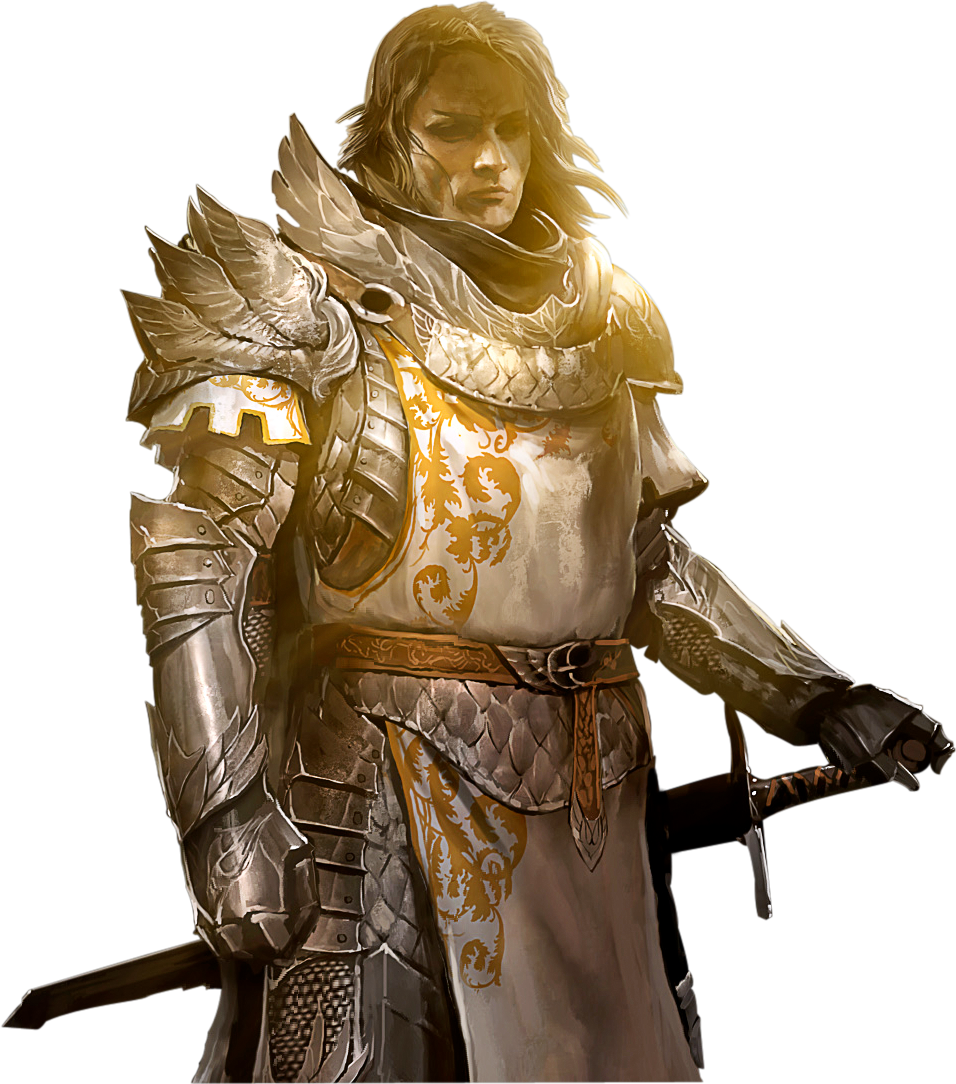
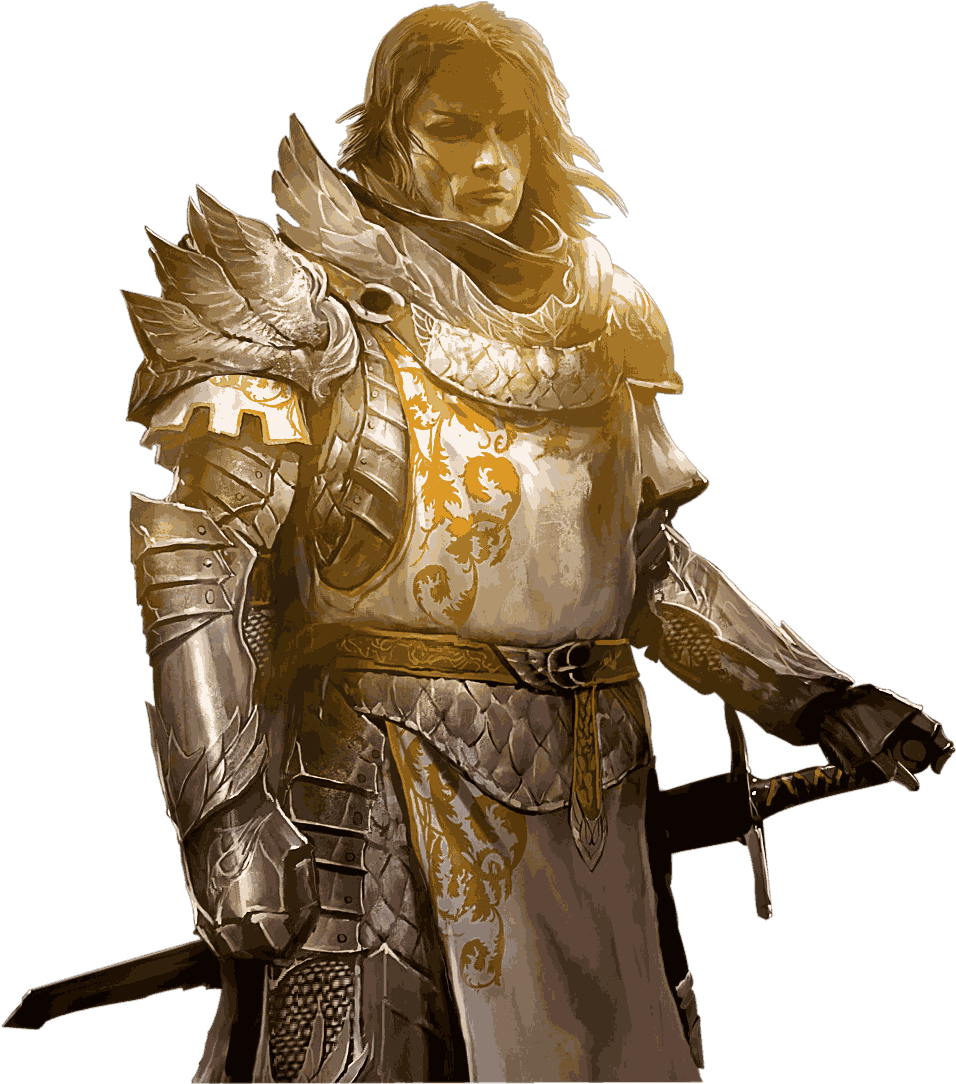
Updates

diff --git a/index.html b/index.html
@@ -9,8 +9,8 @@
     />
     <meta name="viewport" content="width=device-width, initial-scale=1.0" />
     <title>Soul Weaver | Choose Thy Champion, Wield Thy Fate</title>
-    <script type="module" crossorigin src="/Soul-Weaver/assets/index-OHOJaPsQ.js"></script>
-    <link rel="stylesheet" crossorigin href="/Soul-Weaver/assets/index-D1LACfQr.css">
+    <script type="module" crossorigin src="/Soul-Weaver/assets/index-wlFQIXXA.js"></script>
+    <link rel="stylesheet" crossorigin href="/Soul-Weaver/assets/index-CdpSVsqG.css">
   </head>
   <body>
     <div id="root"></div>

diff --git a/assets/index-CdpSVsqG.css b/assets/index-CdpSVsqG.css
@@ -1,0 +1,1 @@
+html,body,div,span,applet,object,iframe,h1,h2,h3,h4,h5,h6,p,blockquote,pre,a,abbr,acronym,address,big,cite,code,del,dfn,em,img,ins,kbd,q,s,samp,small,strike,strong,sub,sup,tt,var,b,u,i,center,dl,dt,dd,ol,ul,li,fieldset,form,label,legend,table,caption,tbody,tfoot,thead,tr,th,td,article,aside,canvas,details,embed,figure,figcaption,footer,header,hgroup,menu,nav,output,ruby,section,summary,time,mark,audio,video{font-size:100%;font:inherit;vertical-align:baseline;border:0;margin:0;padding:0}article,aside,details,figcaption,figure,footer,header,hgroup,menu,nav,section{display:block}body{line-height:1}ol,ul{list-style:none}blockquote,q{quotes:none}blockquote:before,blockquote:after,q:before,q:after{content:"";content:none}table{border-collapse:collapse;border-spacing:0}@font-face{font-family:DarkSouls;src:url(/Soul-Weaver/fonts/Cinzel-Regular.ttf)format("truetype")}@font-face{font-family:DarkSouls bold;src:url(/Soul-Weaver/fonts/Cinzel-Bold.ttf)format("truetype")}@font-face{font-family:DarkSouls medium;src:url(/Soul-Weaver/fonts/Cinzel-Medium.ttf)format("truetype")}@font-face{font-family:DarkSouls xbold;src:url(/Soul-Weaver/fonts/Cinzel-ExtraBold.ttf)format("truetype")}@font-face{font-family:DarkSouls decor;src:url(/Soul-Weaver/fonts/CinzelDecorative-Regular.ttf)format("truetype")}:root{--bg-dark:#0a0a0c;--bg-card:#111115;--border-dim:#1f1f24;--text-main:#d4c8b8;--text-dim:#6b6358;--gold:#c9a24e;--gold-bright:#e0c478;--ember:#c2472b;--ember-bright:#e85d3a;--soul-blue:#5b7b9a}html{box-sizing:border-box;font-size:62.5%}*,:after,:before{box-sizing:inherit;margin:0;padding:0}body{background-color:var(--bg-dark);min-height:100vh;color:var(--text-main);background-image:radial-gradient(at 50% 0,#c2472b26 0%,#0000 60%),radial-gradient(at 80% 100%,#c9a24e14 0%,#0000 50%);justify-content:center;align-items:flex-start;padding:40px 20px;font-family:DarkSouls;font-size:1.6rem;font-style:normal;font-weight:400;display:flex}.container{width:137rem;margin-left:auto;margin-right:auto}.select-wrapper{flex-direction:column;gap:10px;margin-top:5rem;display:flex}.select-label{text-transform:uppercase;letter-spacing:3px;color:var(--text-dim);font-family:DarkSouls bold;font-size:1.4rem;font-weight:600}.class-select{border:1px solid var(--border-dim);background:var(--bg-card);width:100%;color:var(--text-main);cursor:pointer;outline:none;padding:2rem 3rem;font-family:DarkSouls xbold;font-size:1.25em;transition:all .4s;position:relative}.class-select:hover{border-color:var(--gold);box-shadow:0 0 20px #c9a24e1a}.class-select:focus{border-color:var(--ember);box-shadow:0 0 30px #c2472b40,inset 0 0 20px #c2472b0d}.class-select option{background:var(--bg-card);color:var(--text-main)}#contentArea{flex-direction:column;gap:4rem;display:flex}.class-info{background:var(--bg-card);border:1px solid var(--border-dim);clip-path:polygon(0 0,100% 0,98% 100%,2% 100%);align-items:center;gap:20px;padding:20px 25px;display:flex;position:relative;overflow:hidden}.class-info:before{content:"";background:var(--class-color,var(--gold));width:4px;height:100%;position:absolute;top:0;left:0}.class-info .class-icon{filter:drop-shadow(0 0 12px #c9a24e66);width:10rem;animation:3s ease-in-out infinite floatIcon}.class-info .class-name{letter-spacing:2px;text-transform:uppercase;margin-bottom:1rem;font-family:DarkSouls decor;font-size:1.8em;font-weight:900}.class-info .class-desc{color:var(--text-dim);font-family:DarkSouls;font-size:1.4rem;font-style:italic}.weapons-section-title{letter-spacing:3px;text-transform:uppercase;color:var(--text-dim);align-items:center;gap:12px;font-family:DarkSouls bold;font-size:1.4rem;font-weight:700;display:flex}.weapons-section-title:after{content:"";background:linear-gradient(90deg, var(--border-dim), transparent);flex:1;height:1px}.weapons-grid{flex-wrap:wrap;gap:14px;display:flex}.weapon-card{background:var(--bg-card);border:1px solid var(--border-dim);cursor:pointer;background-position:50%;background-repeat:no-repeat;background-size:contain;flex-direction:column;flex:21rem;justify-content:space-between;align-items:center;gap:1.5rem;min-width:15rem;min-height:20rem;padding:25px 15px 20px;font-size:2rem;transition:all .4s cubic-bezier(.25,.8,.25,1.2);display:flex;position:relative;overflow:hidden}.weapon-card:before{content:"";opacity:0;pointer-events:none;background:#ffffff08;width:100%;height:100%;transition:opacity .4s;position:absolute;top:0;left:0}.weapon-card:hover{border-color:var(--gold);transform:translateY(-6px);box-shadow:0 20px 50px #0009,0 0 25px #c9a24e1a}.weapon-card:hover:before{opacity:1}.weapon-card .weapon-icon{filter:drop-shadow(0 4px 8px #00000080);font-size:3.2em;transition:all .4s}.weapon-card:hover .weapon-icon{filter:drop-shadow(0 0 18px #c9a24e99);transform:scale(1.15)}.weapon-card .weapon-name{letter-spacing:1px;text-align:center;color:var(--text-main);font-size:1em;font-weight:700}.weapon-card .weapon-stats{letter-spacing:1px;text-align:center;flex-flow:column wrap;justify-content:center;gap:8px;font-size:.75em;display:flex}.weapon-card .stat{border:1px solid var(--border-dim);color:var(--text-dim);background:#0000004d;padding:5px 12px;font-weight:600}.weapon-card .stat.damage{border-color:var(--ember);color:var(--ember-bright)}.weapon-card .stat.speed{border-color:var(--soul-blue);color:var(--soul-blue)}.weapon-card .ember-line{opacity:0;width:100%;height:3px;transition:opacity .4s;position:absolute;bottom:0;left:0}.weapon-card:hover .ember-line{opacity:1;animation:1.5s ease-in-out infinite emberGlow}.empty-state{text-align:center;color:var(--text-dim);border:1px dashed var(--border-dim);letter-spacing:2px;padding:80px 20px;font-size:1.2em;font-style:italic;position:relative}.empty-state:before{content:"†";color:var(--gold);opacity:.3;margin-bottom:15px;font-size:4em;font-style:normal;animation:4s ease-in-out infinite floatIcon;display:block}@keyframes floatIcon{0%,to{transform:translateY(0)}50%{transform:translateY(-6px)}}@keyframes emberGlow{0%,to{box-shadow:0 0 5px,0 0 10px}50%{box-shadow:0 0 15px,0 0 25px}}.app-header{text-align:center;padding-bottom:25px;position:relative}.app-header:after{content:"";background:linear-gradient(90deg, transparent, var(--ember), var(--gold), var(--ember), transparent);width:120px;height:2px;position:absolute;bottom:0;left:50%;transform:translate(-50%)}.app-title{letter-spacing:6px;background:linear-gradient(#fff 0%,#c8ccd0 25%,#8a9299 50%,#c8ccd0 75%,#fff 100%);-webkit-text-fill-color:transparent;text-transform:uppercase;-webkit-background-clip:text;background-clip:text;margin-bottom:8px;font-family:DarkSouls medium;font-size:5rem;font-weight:900;transition:all .5s;display:inline-block;position:relative}.app-title:hover{filter:drop-shadow(0 0 14px #ffffff40)drop-shadow(0 2px 4px #000000e6)}.app-title:before{content:"";background:linear-gradient(90deg,#0000,#ffffff80,#0000);width:50%;height:1px;position:absolute;top:-8px;left:50%;transform:translate(-50%)}.app-title:after{content:"";background:linear-gradient(90deg,#0000,#ffffff4d,#0000);width:70%;height:1px;position:absolute;bottom:-8px;left:50%;transform:translate(-50%)}.app-subtitle{color:var(--text-dim);letter-spacing:1px;opacity:.7;font-size:1.05em;font-style:italic}.app-subtitle:before,.app-subtitle:after{content:" ~ ";color:var(--ember)}@media (width<=1399px){.container{width:114rem}}@media (width<=1199px){.container{width:96rem}}@media (width<=991px){.container{width:72rem}}@media (width<=767px){.container{width:54rem}}@media (width<=575px){.container{width:100%;padding-left:2rem;padding-right:2rem}.app-title{letter-spacing:1px;font-size:2em}.weapons-grid{gap:8px}.weapon-card{width:100%;padding:18px 8px 14px}.weapon-card .weapon-icon{font-size:2.5em}.class-info{clip-path:polygon(0 0,100% 0,100% 100%,0 100%);text-align:center;flex-direction:column}.class-info:before{width:100%;height:3px}.class-select{padding:14px 16px;font-size:1.1em}}